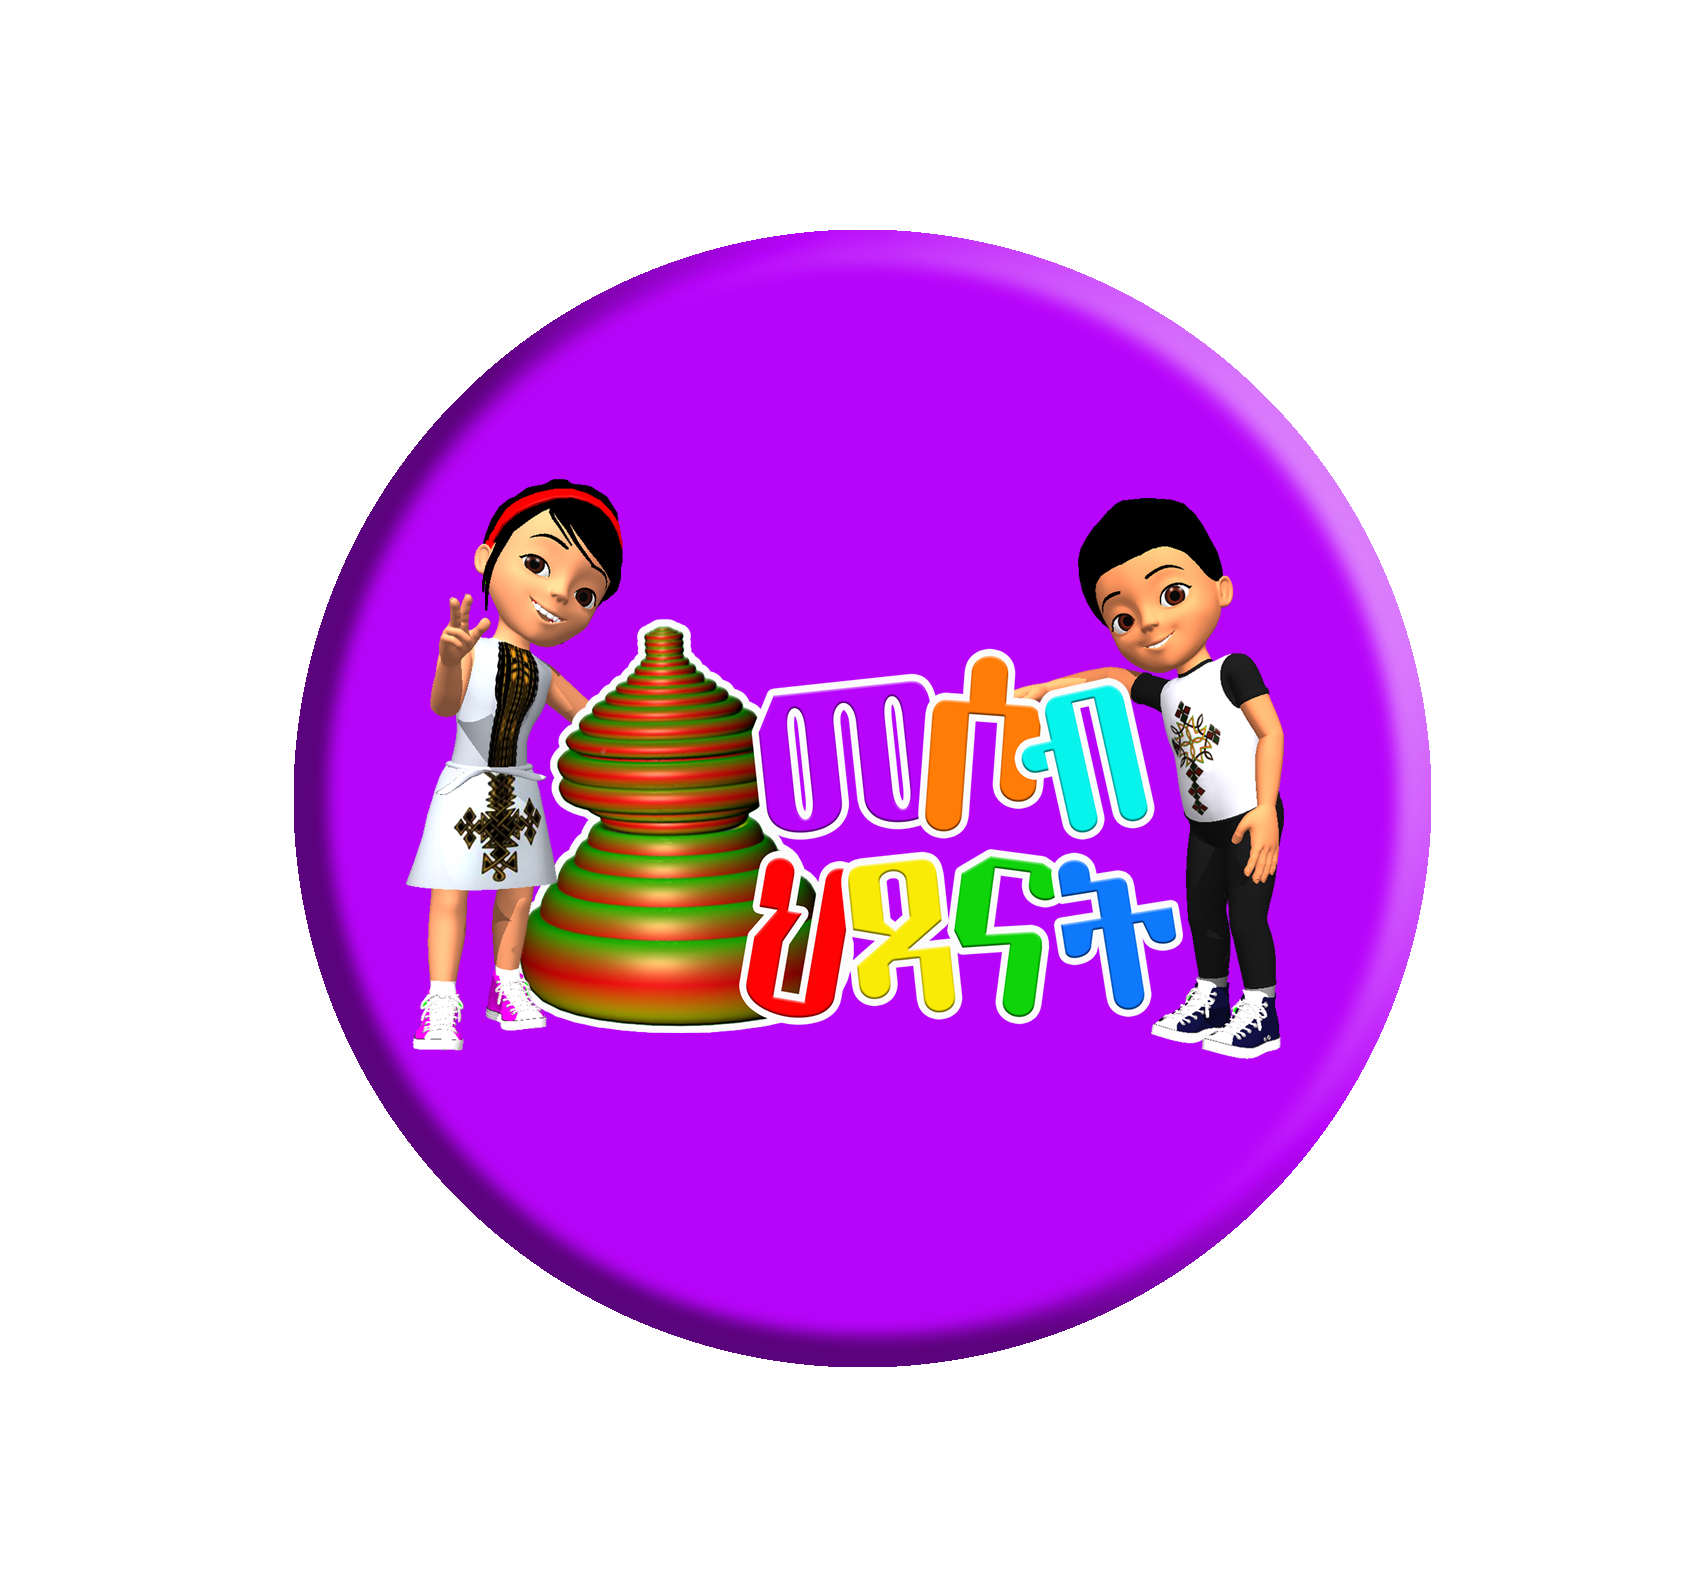
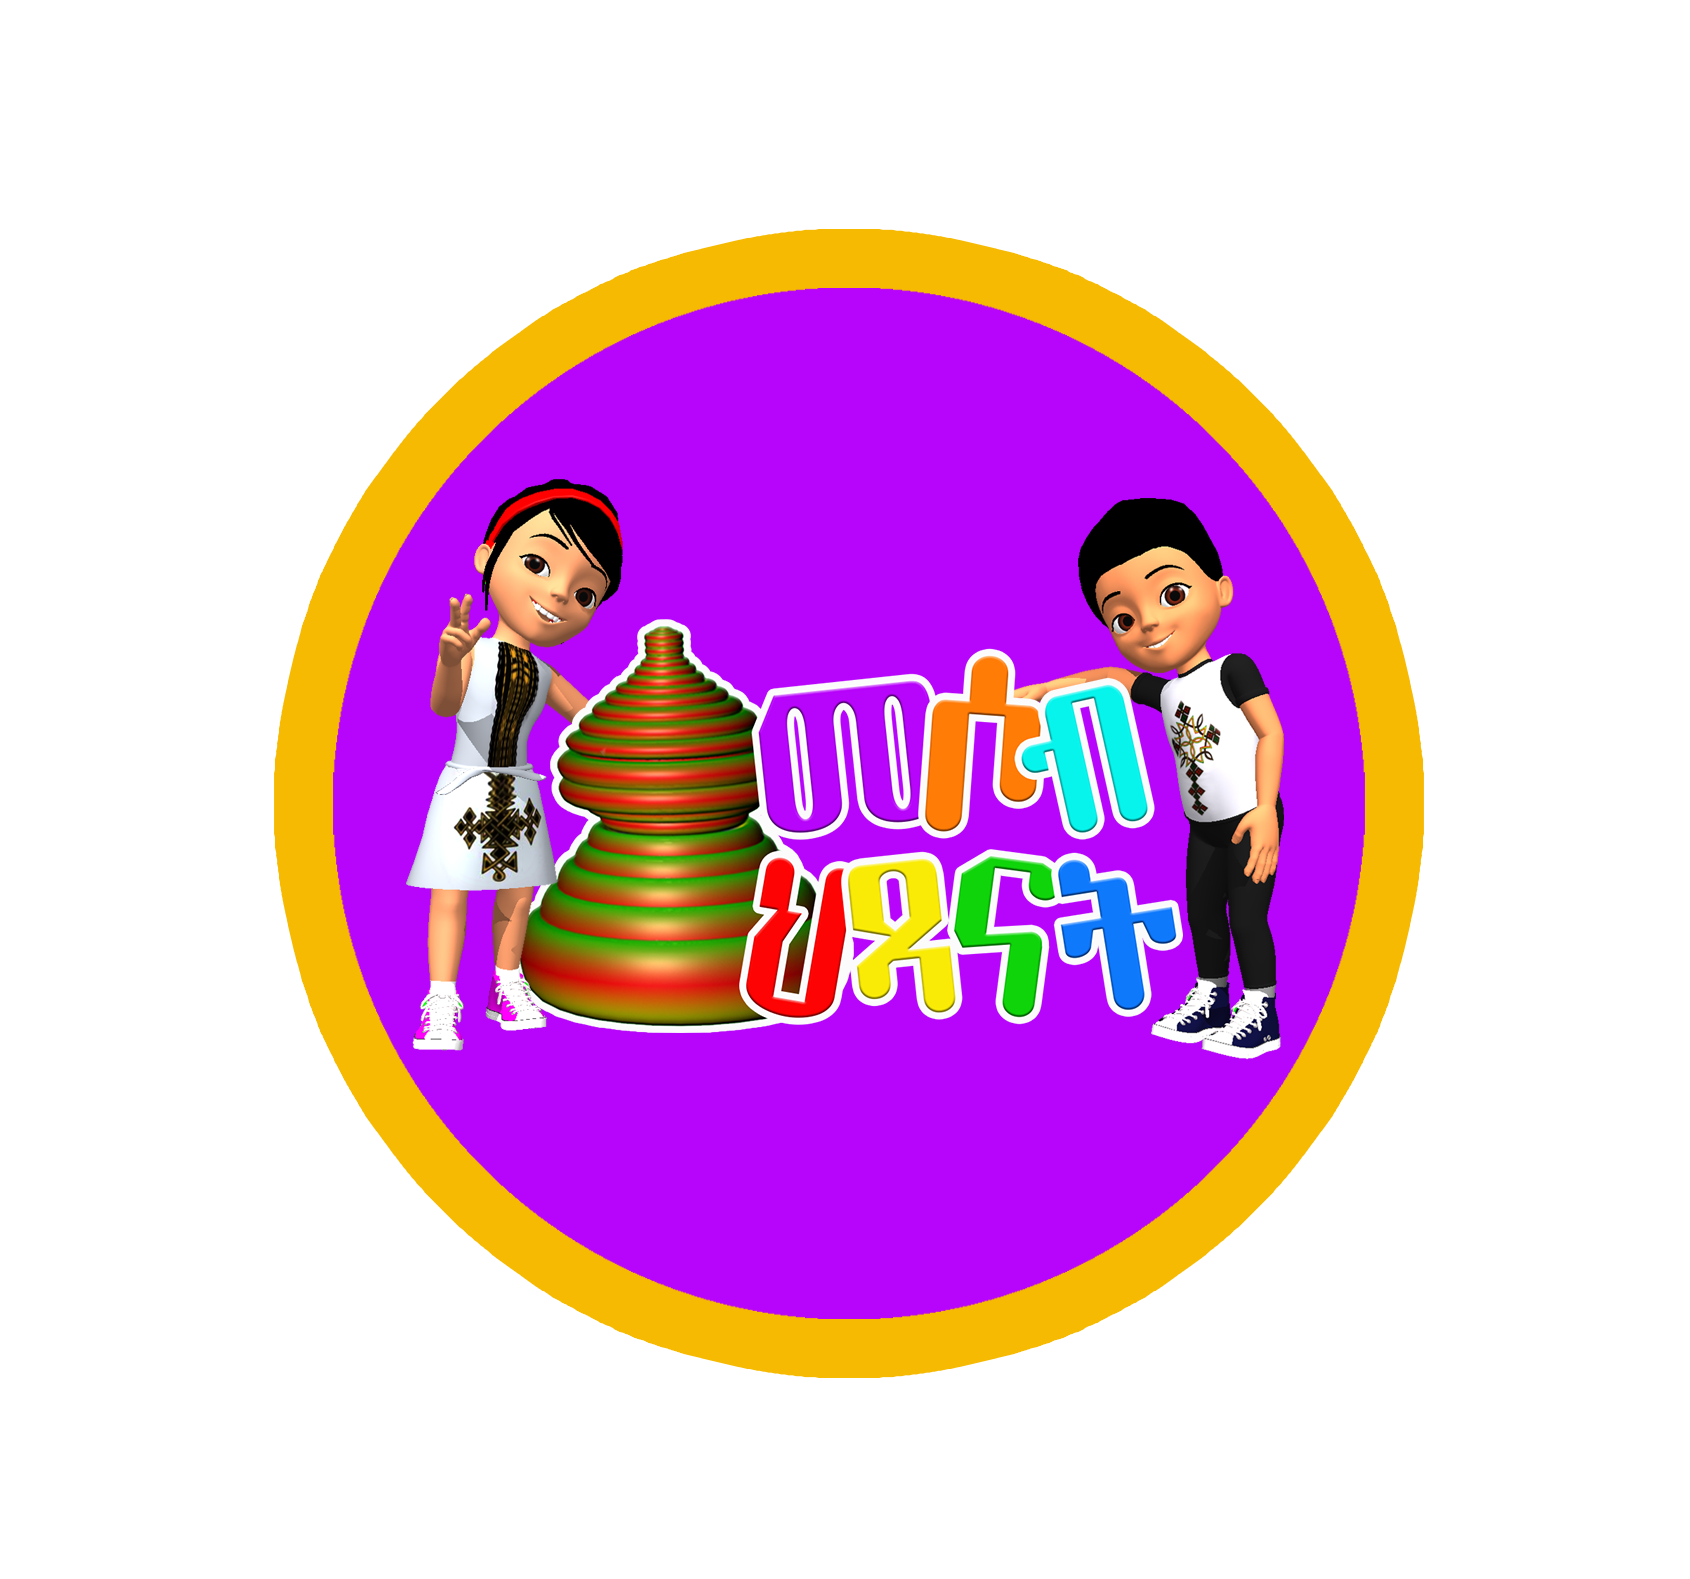
add splash screen

Changed region(s): [[0.1538, 0.1241, 0.8615, 0.8999]]

diff --git a/web/index.html b/web/index.html
@@ -37,7 +37,7 @@
       <source srcset="splash/img/light-1x.png 1x, splash/img/light-2x.png 2x, splash/img/light-3x.png 3x, splash/img/light-4x.png 4x" media="(prefers-color-scheme: light)">
       <source srcset="splash/img/dark-1x.png 1x, splash/img/dark-2x.png 2x, splash/img/dark-3x.png 3x, splash/img/dark-4x.png 4x" media="(prefers-color-scheme: dark)">
       <img class="center" aria-hidden="true" src="splash/img/light-1x.png" alt="">
-  </picture>        
+  </picture>                
   <!-- This script installs service_worker.js to provide PWA functionality to
        application. For more information, see:
        https://developers.google.com/web/fundamentals/primers/service-workers -->

diff --git a/web/splash/style.css b/web/splash/style.css
@@ -2,7 +2,7 @@ body {
   margin:0;
   height:100%;
   background: #000000;
-  
+  background-image: url("img/light-background.png");
   background-size: 100% 100%;
 }
 
@@ -57,7 +57,7 @@ body {
     margin:0;
     height:100%;
     background: #000000;
-    
+    background-image: url("img/dark-background.png");
     background-size: 100% 100%;
   }
 }
